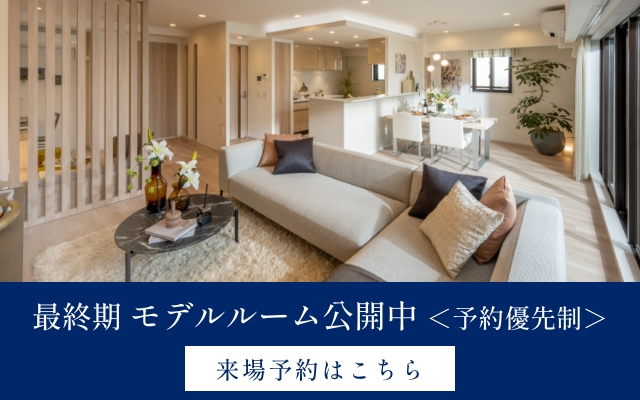
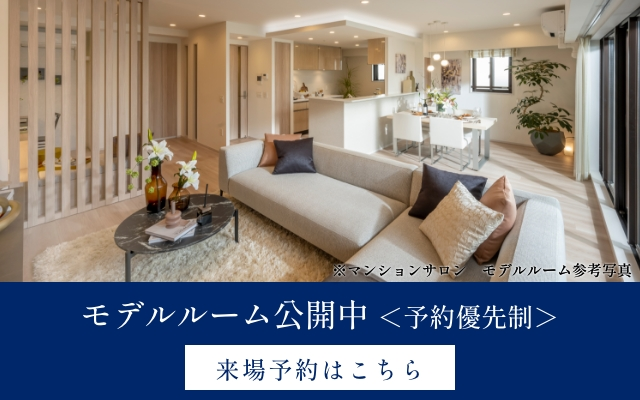
no message

Changed region(s): [[0.0312, 0.75, 0.9375, 0.87], [0.5, 0.66, 1.0, 0.69], [0.2812, 0.96, 0.7188, 0.99]]

diff --git a/htmlmail/240326/member.html b/htmlmail/240326/member.html
@@ -365,13 +365,11 @@ table { width: 100%; margin: 0; padding: 0; border: none; }
                 <td class="main"><img src="https://www.cielia.com/m/saidaiji61/htmlmail/240326/img/main.jpg" alt=""></td>
             </tr>
             <tr>
-                <td class="title">最終期モデルルーム公開中！</td>
+                <td class="title">限定1邸<br>【キャンセル住戸】<br>先着順再販売のご案内</td>
             </tr>
             <tr>
                 <td class="txt"><span class="center">平素は格別のご高配を賜り、有難うございます。<br>この度は、新築分譲マンション【シエリア西大寺】に<br>ご関心をお寄せいただき、誠にありがとうございます。<br><br>
-                    
-                    
-                    <span style="color: #cc0000">南向き・3LDK・71㎡超 月々8万円台～<br>南向きのリビング・ダイニングに面して、<br>奥行き約3.8ｍの開放感あふれるテラスを実現したプラン<br></span>を分譲中でございます。<br>引き続きご関心をお持ちの方は、<br>シエリアサロン西大寺にて<br>モデルルーム見学（予約優先制）を<br>ご案内させていただいております。<br><br>
+                    2024年1月に完売いたしました<br>「シエリア西大寺」ですが、<br><span style="color: #cc0000">キャンセル住戸が発生いたしました。</span><br>キャンセル住戸は、<br><span style="color: #cc0000">「最上階・南東角住戸」駐車場権利付き<br>3LDK+N+2WIC（83.12㎡）5,898万円。</span><br>モデルルームタイプの食器棚やLDダウンライト、<br>アクセントクロス等、オプション付きの<br><span style="color: #cc0000">特別販売住戸</span>となります。<br><br>引き続きご関心をお持ちの方は、<br>シエリアサロン西大寺にて<br>モデルルーム見学（予約優先制）を<br>ご案内させていただいております。<br><br>
 
                     
                 ご不明な点などございましたら、<br>お気軽にシエリアサロンまでお問合せください。<br><a href="tel:0120-861-061"><img src="https://www.cielia.com/m/saidaiji61/htmlmail/240326/img/tel.jpg" alt="" style="max-width:400px"></a>
@@ -380,21 +378,12 @@ table { width: 100%; margin: 0; padding: 0; border: none; }
                 皆様のご来場をスタッフ一同、<br>心よりお待ち申し上げております。</span></td>
             </tr>
             <!-- あいさつ文に関連するコンテンツor来場予約への導線設置必須。キャンペーン実施時は、キャンペーンバナー設置推奨 -->
-            <tr>
-                <td class="txt"><span class="center">シエリア西大寺では只今、<br><span style="color: #cc0000">WINTERフェア</span>を開催中です。（1月28日（日）まで）<br>この機会に是非お越しください。</span></td>
-            </tr>
+            
             <tr>
                 <td class="bnr">
-                        <img src="https://www.cielia.com/m/saidaiji61/htmlmail/240326/img/plan-eg_m2.jpg" alt="">
+                        <img src="https://www.cielia.com/m/saidaiji61/htmlmail/240326/img/plan_btype.jpg" alt="">
                 </td>
             </tr>
-            <tr>
-                <td class="bnr">
-                    <a href="https://mid.secure.force.com/reserve?id=a0c5j000000erLn&utm_source=mail&utm_medium=email&utm_campaign=mail" target="_blank">
-                        <img src="https://www.cielia.com/m/saidaiji61/htmlmail/240326/img/bnr_cp.jpg" alt="">
-                    </a>
-                </td>
-            </tr>         
             <tr>
                 <td class="btn" style="padding-top:40px">
                     <a href="https://mid.secure.force.com/reserve?id=a0c5j000000erLn&utm_source=mail&utm_medium=email&utm_campaign=mail" target="_blank">
@@ -412,10 +401,10 @@ table { width: 100%; margin: 0; padding: 0; border: none; }
                 <td class="en">PICK UP</td>
             </tr>
             <tr>
-                <td class="title">新しい間取りを公開</td>
+                <td class="title">限定1邸<br>最上階 モデルルームタイプ</td>
             </tr>
             <tr>
-                <td class="copy">Egタイプのメニュープラン2<br>を公開いたしました。</td>
+                <td class="copy">Bタイプのメニュープラン1<br>を公開いたしました。</td>
             </tr>
             <tr>
                 <td class="img"><img src="https://www.cielia.com/m/saidaiji61/htmlmail/240326/img/img_pickup03.jpg" alt=""></td>
